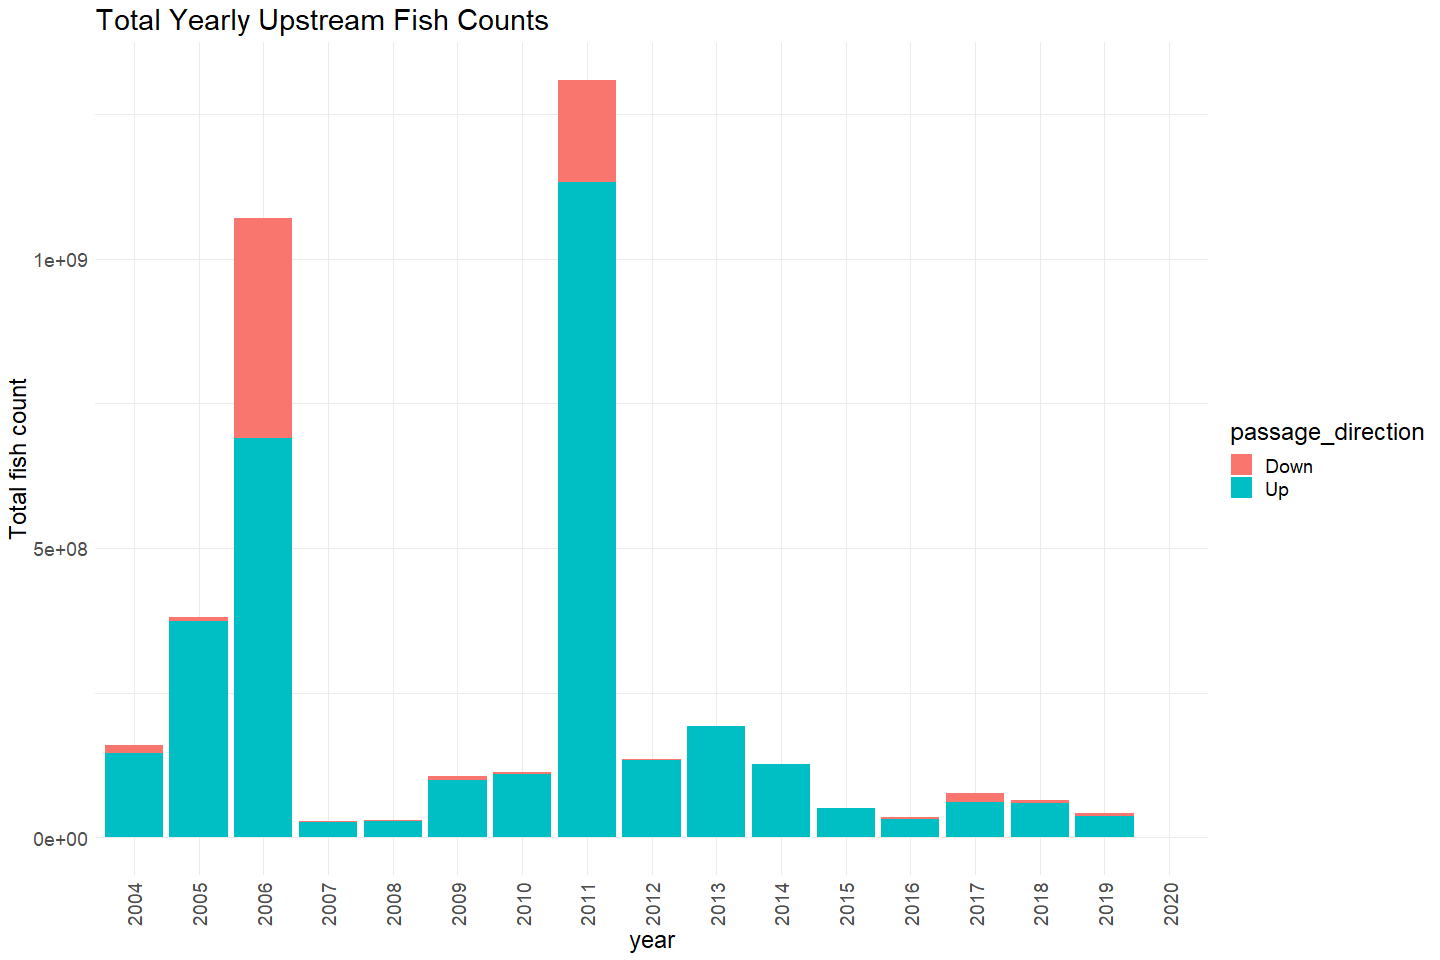
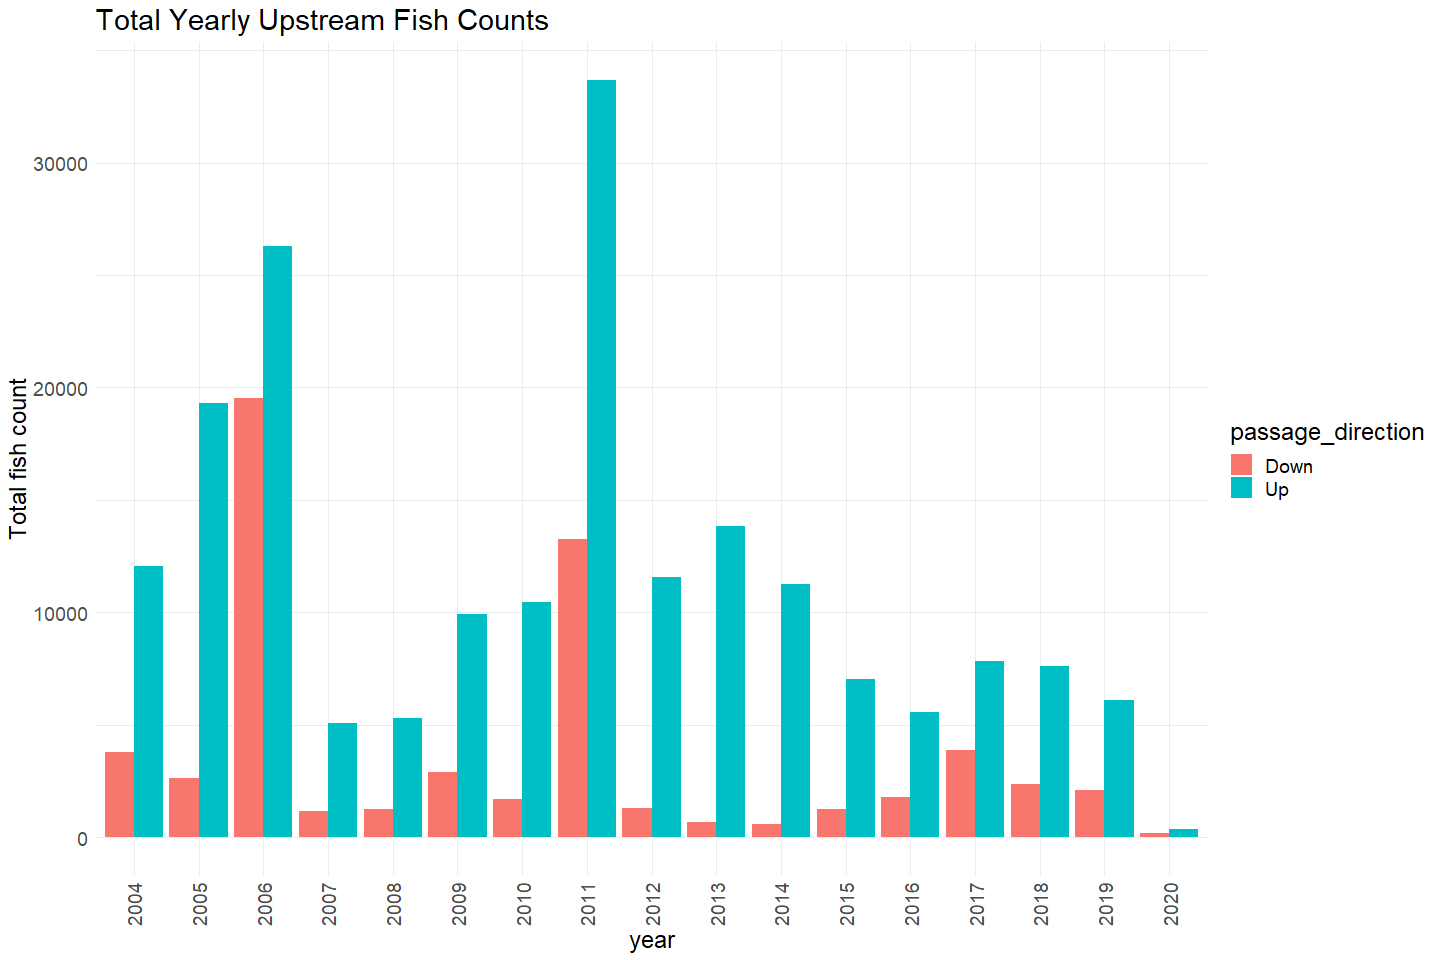
Edits plots for yuba upstream passage

diff --git a/scripts/adult-upstream-passage-monitoring/yuba-river/yuba_adult_passage_data_qc.md b/scripts/adult-upstream-passage-monitoring/yuba-river/yuba_adult_passage_data_qc.md
@@ -130,8 +130,8 @@ cleaner_passage_data %>% select_if(is.numeric) %>% colnames()
 
 ``` r
 cleaner_passage_data %>% filter(year(date) > 2010) %>% # show only last 10 years to make graphs more legible 
-  group_by(date) %>%
-  mutate(total_count = sum(count)) %>%
+  group_by(date, passage_direction) %>%
+  summarise(total_count = sum(count)) %>%
   ungroup() %>%
   mutate(year = as.factor(year(date)),
          fake_year = if_else(month(date) %in% 10:12, 1900, 1901),
@@ -146,6 +146,8 @@ cleaner_passage_data %>% filter(year(date) > 2010) %>% # show only last 10 years
   labs(title = "Daily Count of Passage All Runs", 
        x = "Date")  
 ```
+
+    ## `summarise()` has grouped output by 'date'. You can override using the `.groups` argument.
 
 ![](yuba_adult_passage_data_qc_files/figure-gfm/unnamed-chunk-5-1.png)<!-- -->
 
@@ -172,15 +174,17 @@ cleaner_passage_data %>% group_by(date, passage_direction) %>%
 cleaner_passage_data  %>%
   mutate(year = as.factor(year(date))) %>%
   group_by(year, passage_direction) %>%
-  mutate(total_count = sum(count)) %>%
+  summarise(total_count = sum(count)) %>%
   ggplot(aes(x = year, y = total_count, fill = passage_direction)) + 
-  geom_col() + 
+  geom_col(position = "dodge") + 
   theme_minimal() +
   labs(title = "Total Yearly Upstream Fish Counts",
        y = "Total fish count") + 
   theme(text = element_text(size = 18),
         axis.text.x = element_text(angle = 90, vjust = 0.5, hjust=1)) 
 ```
+
+    ## `summarise()` has grouped output by 'year'. You can override using the `.groups` argument.
 
 ![](yuba_adult_passage_data_qc_files/figure-gfm/unnamed-chunk-7-1.png)<!-- -->
 
